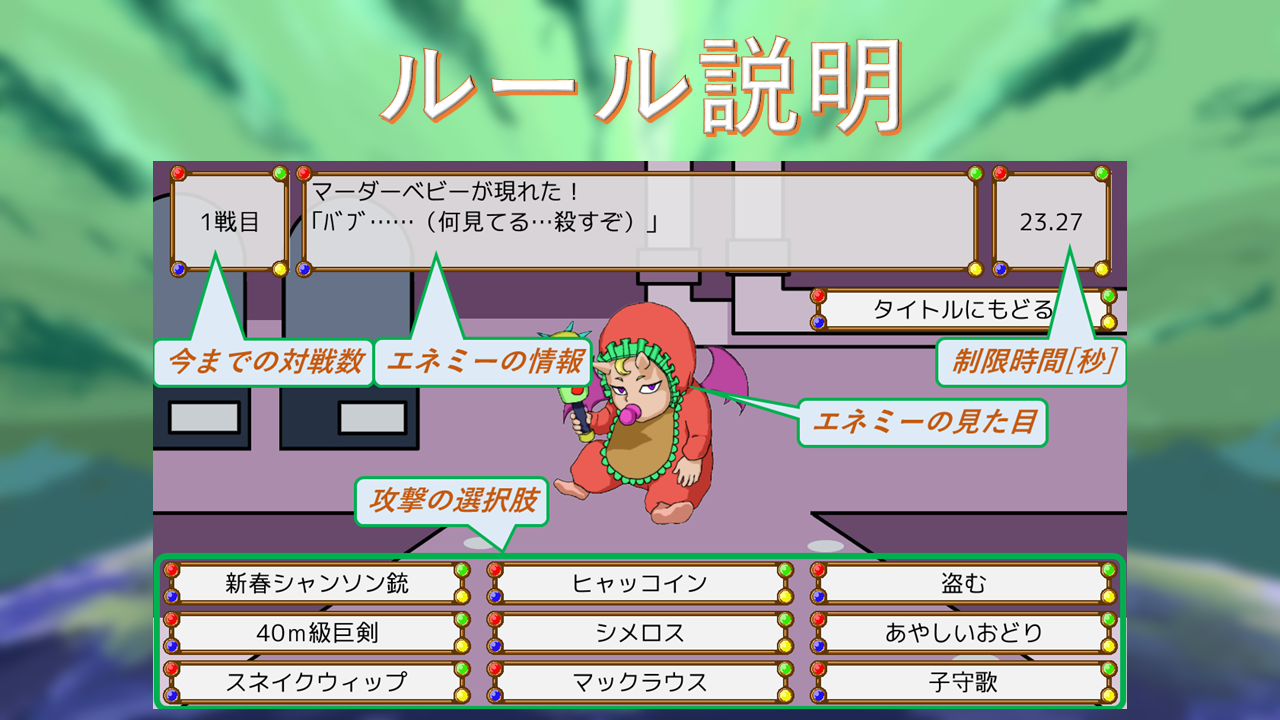
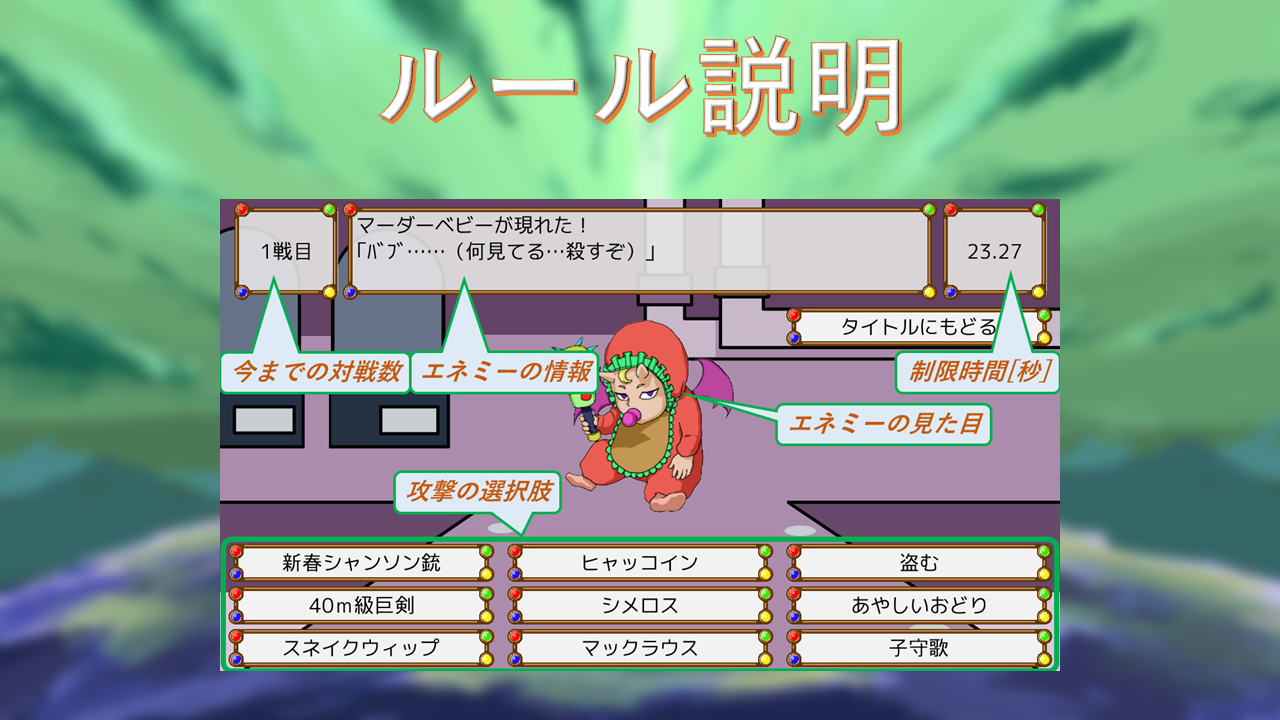
added second rule

diff --git a/Game/Scene/Rule/Rule2.cpp b/Game/Scene/Rule/Rule2.cpp
@@ -1,11 +1,11 @@
-#include "Rule.h"
+#include "Rule2.h"
 #include "../../Drawable/DrawableAssetTexture.h"
 #include"../../Button/ButtonManager.h"
 #include"../../Button/TextureAssetButton.h"
 
 using namespace scene::rule;
 
-void Rule::init()
+void Rule2::init()
 {
     ButtonManager::clearAll();
     ButtonManager::update();
@@ -20,8 +20,8 @@ void Rule::init()
     
     std::shared_ptr<TextureAssetButton> button;
 
-    button = std::make_shared<TextureAssetButton>(Vec2{ 1190, 360 }, L"right_button_resize", [changeScene]() {
-        changeScene(L"Rule2");
+    button = std::make_shared<TextureAssetButton>(Vec2{ 90, 360 }, L"left_button_resize", [changeScene]() {
+        changeScene(L"Rule");
     });
     ButtonManager::add(button);
     drawables.add(button, 1);
@@ -33,11 +33,11 @@ void Rule::init()
     drawables.add(button, 2);
 }
 
-void Rule::update()
+void Rule2::update()
 {
 }
 
-void Rule::draw() const
+void Rule2::draw() const
 {
     drawables.drawAll();
 }

diff --git a/Game/Main.cpp b/Game/Main.cpp
@@ -6,6 +6,7 @@
 #include"Scene\Title\Title.h"
 #include"Scene\Battle\Battle.h"
 #include"Scene\Rule\Rule.h"
+#include"Scene\Rule\Rule2.h"
 #include"Scene\EnemyGuide\EGListType.h"
 #include"Scene\EnemyGuide\EGDetailType.h"
 #include"Scene\Result\Result.h"
@@ -41,6 +42,7 @@ void Main()
 	manager.add<scene::enemyGuide::EGDetailType>(L"EGDetailType");
 	manager.add<scene::enemyGuide::EGListType>(L"EGListType");
     manager.add<scene::rule::Rule>(L"Rule");
+    manager.add<scene::rule::Rule2>(L"Rule2");
 	manager.add<scene::title::Title>(L"Title");
 	manager.add<scene::result::Result>(L"Result");
 	manager.add<scene::battle::Battle>(L"Battle");

diff --git a/Game/RegisterAsset.cpp b/Game/RegisterAsset.cpp
@@ -13,6 +13,10 @@ RegisterAsset::RegisterAsset()
 	TextureAsset::Register(L"QuitButtonM", L"/1206");
 	TextureAsset::Register(L"StartButtonL", L"/1207");
 	TextureAsset::Register(L"back_button_resize", L"/1208");
+	TextureAsset::Register(L"Rule", L"/1209");
+	TextureAsset::Register(L"right_button_resize", L"/1210");
+	TextureAsset::Register(L"left_button_resize", L"/1211");
+	TextureAsset::Register(L"title_button_resize", L"/1212");
 
 	TextureAsset::Register(L"title_button", L"/1300");
 	TextureAsset::Register(L"left_button", L"/1301");
